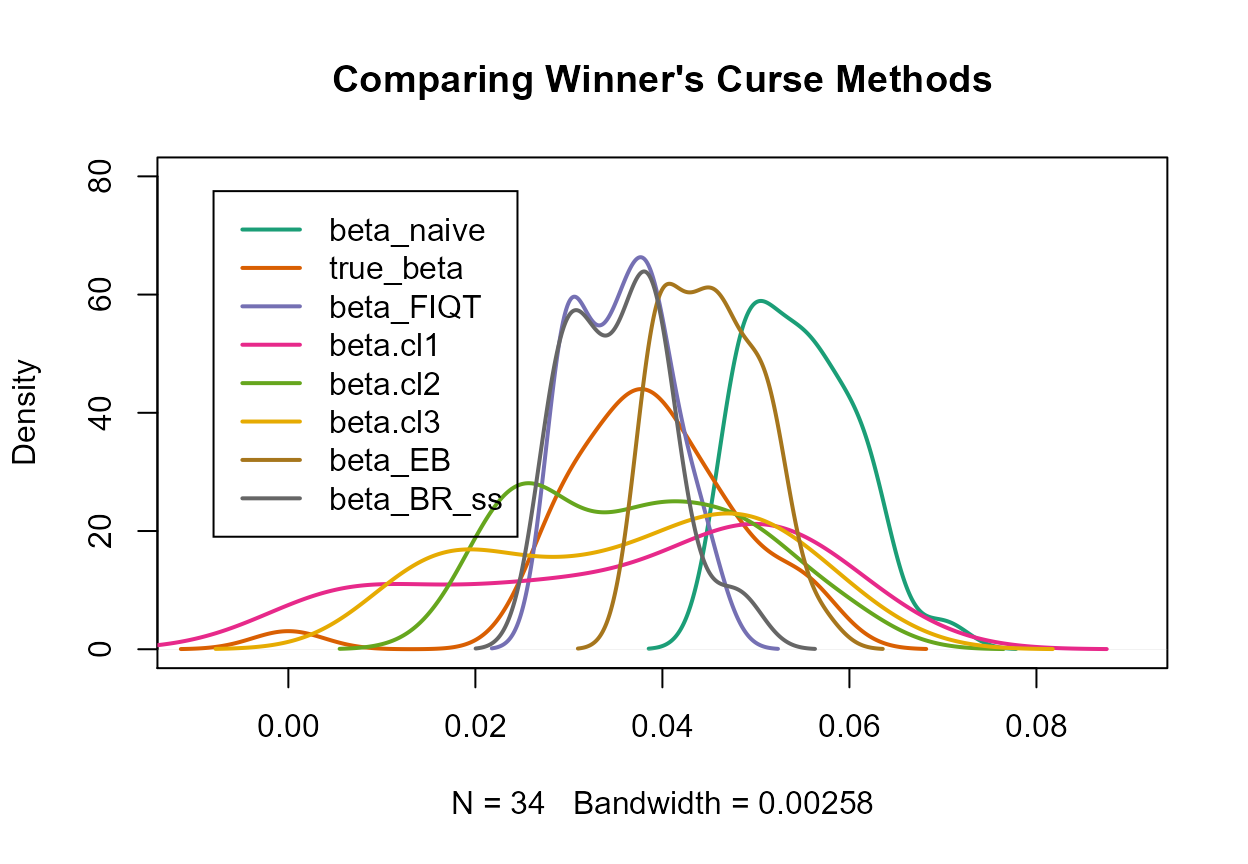
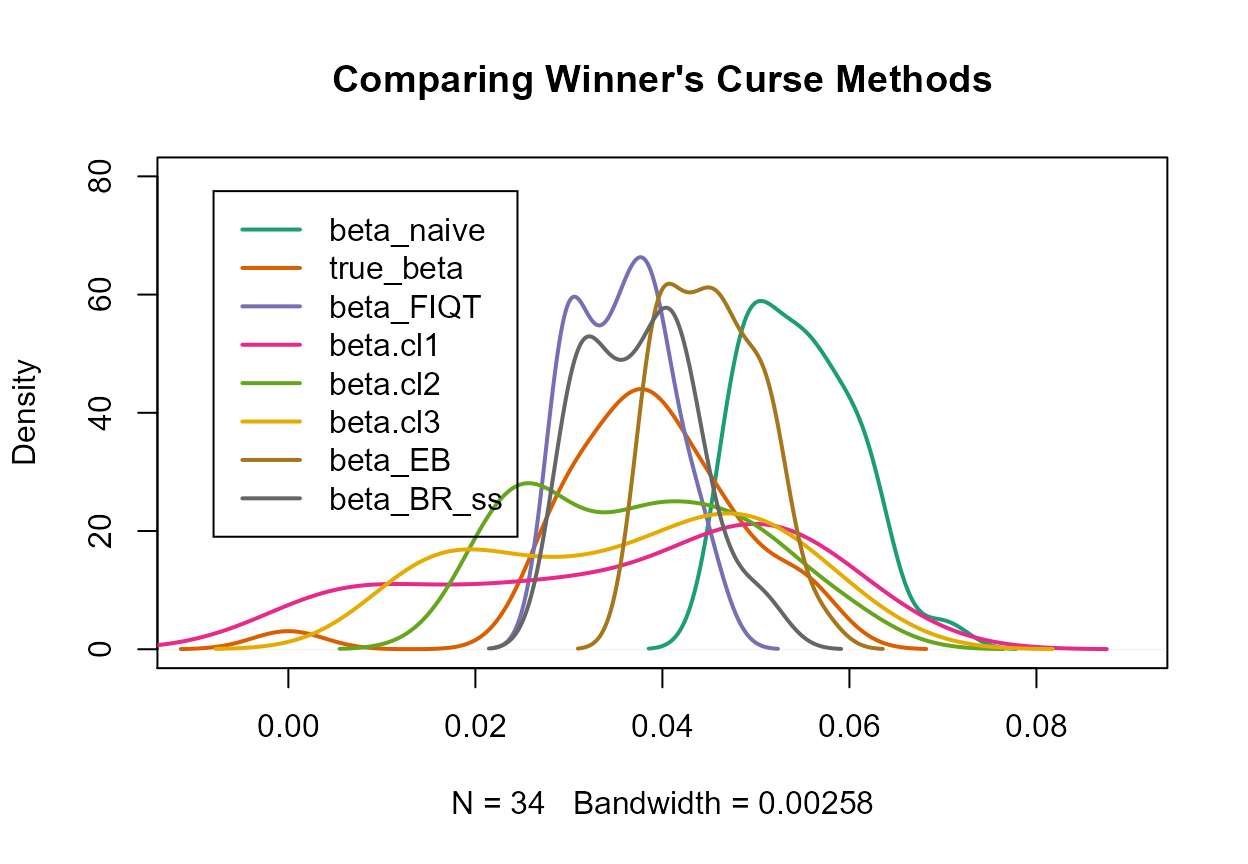
minor polishing touches 13/04

Changed region(s): [[0.375, 0.3125, 0.625, 0.75], [0.625, 0.7188, 0.6562, 0.75]]

diff --git a/docs/articles/winners_curse_methods.html b/docs/articles/winners_curse_methods.html
@@ -246,7 +246,7 @@
 <a href="#method-4-bootstrap" class="anchor"></a>Method 4: Bootstrap</h3>
 <ul>
 <li><p>Inspired by the winner’s curse adjustment method detailed in <a href="https://onlinelibrary.wiley.com/doi/abs/10.1002/sim.4228">Faye <em>et al.</em> (2011)</a>, the function <code>BR_ss</code> implements a computationally efficient bootstrap method which is suitable for use with summary statistics.</p></li>
-<li><p><code>BR_ss</code> takes a data frame <code>summary_data</code> with three columns: <code>rsid</code>, <code>beta</code>, <code>se</code>, and returns the inputted data frame along with the adjusted estimate for <span class="math inline">\(\beta\)</span>, <code>beta_BR_ss</code>. The function also has a parameter <code>seed</code> which can be set to a specific numeric value by the user to permit reproducibility. This is required as this method involves bootstrap implementation and therefore, the use of a seed allows the user to obtain the exact same results for <code>beta_BR_ss</code> when running the function many times on the same dataset. The default value for <code>seed</code> is <code>1998</code>.</p></li>
+<li><p><code>BR_ss</code> takes a data frame <code>summary_data</code> with three columns: <code>rsid</code>, <code>beta</code>, <code>se</code>, and returns the inputted data frame along with the adjusted estimate for <span class="math inline">\(\beta\)</span>, <code>beta_BR_ss</code>. The function also has a logical parameter <code>seed_opt</code> which can be set to <code>TRUE</code> by the user to permit reproducibility. Its default setting is <code>seed_opt=FALSE</code>. As this method involves bootstrap implementation, the use of a seed can allow the user to obtain the exact same results for <code>beta_BR_ss</code> when running the function many times on the same dataset. The parameter <code>seed</code> provides the user with an option to set their desired value for the seed when using <code>seed_opt=TRUE</code>. The default for <code>seed</code> is the arbitrary value of <code>1998</code>.</p></li>
 </ul>
 <p><span class="math inline">\(~\)</span></p>
 <p><strong>Method description:</strong></p>
@@ -261,12 +261,12 @@
 <code class="sourceCode R"><span class="va">out_BR_ss</span> <span class="op">&lt;-</span> <span class="fu"><a href="../reference/BR_ss.html">BR_ss</a></span><span class="op">(</span>summary_data <span class="op">=</span> <span class="va">summary_stats</span>, seed<span class="op">=</span><span class="fl">2020</span><span class="op">)</span>
 <span class="fu"><a href="https://rdrr.io/r/utils/head.html">head</a></span><span class="op">(</span><span class="va">out_BR_ss</span><span class="op">)</span>
 <span class="co">#&gt;   rsid        beta          se  beta_BR_ss</span>
-<span class="co">#&gt; 1 3965  0.06064760 0.008191123  0.04734351</span>
-<span class="co">#&gt; 2 7815  0.06273204 0.008477889  0.04894913</span>
-<span class="co">#&gt; 3 4998 -0.05956742 0.008336576 -0.04113971</span>
-<span class="co">#&gt; 4 7261  0.05510736 0.008186396  0.03990783</span>
-<span class="co">#&gt; 5 6510  0.05623389 0.008389116  0.04057554</span>
-<span class="co">#&gt; 6 9917  0.05466029 0.008176299  0.03934833</span></code></pre></div>
+<span class="co">#&gt; 1 3965  0.06064760 0.008191123  0.04959912</span>
+<span class="co">#&gt; 2 7815  0.06273204 0.008477889  0.05128017</span>
+<span class="co">#&gt; 3 4998 -0.05956742 0.008336576 -0.04600100</span>
+<span class="co">#&gt; 4 7261  0.05510736 0.008186396  0.04168222</span>
+<span class="co">#&gt; 5 6510  0.05623389 0.008389116  0.04237417</span>
+<span class="co">#&gt; 6 9917  0.05466029 0.008176299  0.04108921</span></code></pre></div>
 </div>
 <div id="comparing-results" class="section level3">
 <h3 class="hasAnchor">
@@ -293,17 +293,17 @@
 <code class="sourceCode R"><span class="va">sq_diff_2</span> <span class="op">&lt;-</span> <span class="fu"><a href="https://rdrr.io/r/base/data.frame.html">data.frame</a></span><span class="op">(</span>naive <span class="op">=</span> <span class="fu"><a href="https://rdrr.io/r/base/sum.html">sum</a></span><span class="op">(</span><span class="op">(</span><span class="va">true_beta</span><span class="op">[</span><span class="va">out_EB</span><span class="op">$</span><span class="va">rsid</span><span class="op">]</span> <span class="op">-</span> <span class="va">out_EB</span><span class="op">$</span><span class="va">beta</span><span class="op">)</span><span class="op">^</span><span class="fl">2</span><span class="op">)</span>, beta_EB <span class="op">=</span> <span class="fu"><a href="https://rdrr.io/r/base/sum.html">sum</a></span><span class="op">(</span><span class="op">(</span><span class="va">true_beta</span><span class="op">[</span><span class="va">out_EB</span><span class="op">$</span><span class="va">rsid</span><span class="op">]</span> <span class="op">-</span> <span class="va">out_EB</span><span class="op">$</span><span class="va">beta_EB</span><span class="op">)</span><span class="op">^</span><span class="fl">2</span><span class="op">)</span>, beta_FIQT <span class="op">=</span> <span class="fu"><a href="https://rdrr.io/r/base/sum.html">sum</a></span><span class="op">(</span><span class="op">(</span><span class="va">true_beta</span><span class="op">[</span><span class="va">out_FIQT</span><span class="op">$</span><span class="va">rsid</span><span class="op">]</span> <span class="op">-</span> <span class="va">out_FIQT</span><span class="op">$</span><span class="va">beta_FIQT</span><span class="op">)</span><span class="op">^</span><span class="fl">2</span><span class="op">)</span>, beta_BR_ss <span class="op">=</span> <span class="fu"><a href="https://rdrr.io/r/base/sum.html">sum</a></span><span class="op">(</span><span class="op">(</span><span class="va">true_beta</span><span class="op">[</span><span class="va">out_BR_ss</span><span class="op">$</span><span class="va">rsid</span><span class="op">]</span> <span class="op">-</span> <span class="va">out_BR_ss</span><span class="op">$</span><span class="va">beta_BR_ss</span><span class="op">)</span><span class="op">^</span><span class="fl">2</span><span class="op">)</span><span class="op">)</span>
 <span class="va">sq_diff_2</span>
 <span class="co">#&gt;      naive  beta_EB beta_FIQT beta_BR_ss</span>
-<span class="co">#&gt; 1 155.8238 1.840636  1.867272   15.21117</span>
+<span class="co">#&gt; 1 155.8238 1.840611  1.867272   15.13993</span>
 
 <span class="va">mean_abs_diff_2</span> <span class="op">&lt;-</span> <span class="fu"><a href="https://rdrr.io/r/base/data.frame.html">data.frame</a></span><span class="op">(</span>naive <span class="op">=</span> <span class="fu"><a href="https://rdrr.io/r/base/mean.html">mean</a></span><span class="op">(</span><span class="fu"><a href="https://rdrr.io/r/base/MathFun.html">abs</a></span><span class="op">(</span><span class="va">true_beta</span><span class="op">[</span><span class="va">out_EB</span><span class="op">$</span><span class="va">rsid</span><span class="op">]</span> <span class="op">-</span> <span class="va">out_EB</span><span class="op">$</span><span class="va">beta</span><span class="op">)</span><span class="op">)</span>, beta_EB <span class="op">=</span> <span class="fu"><a href="https://rdrr.io/r/base/mean.html">mean</a></span><span class="op">(</span><span class="fu"><a href="https://rdrr.io/r/base/MathFun.html">abs</a></span><span class="op">(</span><span class="va">true_beta</span><span class="op">[</span><span class="va">out_EB</span><span class="op">$</span><span class="va">rsid</span><span class="op">]</span> <span class="op">-</span> <span class="va">out_EB</span><span class="op">$</span><span class="va">beta_EB</span><span class="op">)</span><span class="op">)</span>, beta_FIQT <span class="op">=</span> <span class="fu"><a href="https://rdrr.io/r/base/mean.html">mean</a></span><span class="op">(</span><span class="fu"><a href="https://rdrr.io/r/base/MathFun.html">abs</a></span><span class="op">(</span><span class="va">true_beta</span><span class="op">[</span><span class="va">out_FIQT</span><span class="op">$</span><span class="va">rsid</span><span class="op">]</span> <span class="op">-</span> <span class="va">out_FIQT</span><span class="op">$</span><span class="va">beta_FIQT</span><span class="op">)</span><span class="op">)</span>, beta_BR_ss <span class="op">=</span> <span class="fu"><a href="https://rdrr.io/r/base/mean.html">mean</a></span><span class="op">(</span><span class="fu"><a href="https://rdrr.io/r/base/MathFun.html">abs</a></span><span class="op">(</span><span class="va">true_beta</span><span class="op">[</span><span class="va">out_BR_ss</span><span class="op">$</span><span class="va">rsid</span><span class="op">]</span> <span class="op">-</span> <span class="va">out_BR_ss</span><span class="op">$</span><span class="va">beta_BR_ss</span><span class="op">)</span><span class="op">)</span><span class="op">)</span>
 <span class="va">mean_abs_diff_2</span>
 <span class="co">#&gt;         naive      beta_EB    beta_FIQT  beta_BR_ss</span>
-<span class="co">#&gt; 1 0.009104013 0.0002067533 0.0002557587 0.002790279</span>
+<span class="co">#&gt; 1 0.009104013 0.0002068009 0.0002557587 0.002778236</span>
 
 <span class="va">frac_less_bias_2</span> <span class="op">&lt;-</span> <span class="fu"><a href="https://rdrr.io/r/base/data.frame.html">data.frame</a></span><span class="op">(</span>beta_EB <span class="op">=</span> <span class="op">(</span><span class="fu"><a href="https://rdrr.io/r/base/sum.html">sum</a></span><span class="op">(</span><span class="fu"><a href="https://rdrr.io/r/base/MathFun.html">abs</a></span><span class="op">(</span><span class="va">true_beta</span><span class="op">[</span><span class="va">out_EB</span><span class="op">$</span><span class="va">rsid</span><span class="op">]</span> <span class="op">-</span> <span class="va">out_EB</span><span class="op">$</span><span class="va">beta</span><span class="op">)</span> <span class="op">&gt;</span> <span class="fu"><a href="https://rdrr.io/r/base/MathFun.html">abs</a></span><span class="op">(</span><span class="va">true_beta</span><span class="op">[</span><span class="va">out_EB</span><span class="op">$</span><span class="va">rsid</span><span class="op">]</span> <span class="op">-</span> <span class="va">out_EB</span><span class="op">$</span><span class="va">beta_EB</span><span class="op">)</span><span class="op">)</span><span class="op">)</span><span class="op">/</span><span class="fu"><a href="https://rdrr.io/r/base/nrow.html">nrow</a></span><span class="op">(</span><span class="va">out_EB</span><span class="op">)</span>, beta_FIQT <span class="op">=</span> <span class="op">(</span><span class="fu"><a href="https://rdrr.io/r/base/sum.html">sum</a></span><span class="op">(</span><span class="fu"><a href="https://rdrr.io/r/base/MathFun.html">abs</a></span><span class="op">(</span><span class="va">true_beta</span><span class="op">[</span><span class="va">out_FIQT</span><span class="op">$</span><span class="va">rsid</span><span class="op">]</span> <span class="op">-</span> <span class="va">out_FIQT</span><span class="op">$</span><span class="va">beta</span><span class="op">)</span> <span class="op">&gt;</span> <span class="fu"><a href="https://rdrr.io/r/base/MathFun.html">abs</a></span><span class="op">(</span><span class="va">true_beta</span><span class="op">[</span><span class="va">out_FIQT</span><span class="op">$</span><span class="va">rsid</span><span class="op">]</span> <span class="op">-</span> <span class="va">out_FIQT</span><span class="op">$</span><span class="va">beta_FIQT</span><span class="op">)</span><span class="op">)</span><span class="op">)</span><span class="op">/</span><span class="fu"><a href="https://rdrr.io/r/base/nrow.html">nrow</a></span><span class="op">(</span><span class="va">out_FIQT</span><span class="op">)</span>, beta_BR_ss <span class="op">=</span> <span class="op">(</span><span class="fu"><a href="https://rdrr.io/r/base/sum.html">sum</a></span><span class="op">(</span><span class="fu"><a href="https://rdrr.io/r/base/MathFun.html">abs</a></span><span class="op">(</span><span class="va">true_beta</span><span class="op">[</span><span class="va">out_BR_ss</span><span class="op">$</span><span class="va">rsid</span><span class="op">]</span> <span class="op">-</span> <span class="va">out_BR_ss</span><span class="op">$</span><span class="va">beta</span><span class="op">)</span> <span class="op">&gt;</span> <span class="fu"><a href="https://rdrr.io/r/base/MathFun.html">abs</a></span><span class="op">(</span><span class="va">true_beta</span><span class="op">[</span><span class="va">out_BR_ss</span><span class="op">$</span><span class="va">rsid</span><span class="op">]</span> <span class="op">-</span> <span class="va">out_BR_ss</span><span class="op">$</span><span class="va">beta_BR_ss</span><span class="op">)</span><span class="op">)</span><span class="op">)</span><span class="op">/</span><span class="fu"><a href="https://rdrr.io/r/base/nrow.html">nrow</a></span><span class="op">(</span><span class="va">out_BR_ss</span><span class="op">)</span><span class="op">)</span>
 <span class="va">frac_less_bias_2</span>
-<span class="co">#&gt;    beta_EB beta_FIQT beta_BR_ss</span>
-<span class="co">#&gt; 1 0.991785  0.994367   0.994038</span></code></pre></div>
+<span class="co">#&gt;   beta_EB beta_FIQT beta_BR_ss</span>
+<span class="co">#&gt; 1 0.99179  0.994367   0.994128</span></code></pre></div>
 <p>Again, we see that in the top two cases, the value associated with the naive estimate is greatest. This assures us that the new adjusted estimates provided by each method are indeed less biased than the original <span class="math inline">\(\beta\)</span> estimate. In fact, for each method, at least 99% of the association estimates of all SNPs are now less biased.</p>
 <p>Finally, we can compare the performance of all methods for the SNPs with raw <span class="math inline">\(p\)</span>-values less than <code>5e-8</code>.</p>
 <div class="sourceCode" id="cb9"><pre class="downlit sourceCode r">
@@ -317,14 +317,14 @@
 <span class="co">#&gt;        naive   beta.cl1    beta.cl2   beta.cl3     beta_EB   beta_FIQT</span>
 <span class="co">#&gt; 1 0.01315265 0.01096133 0.004872073 0.00726706 0.005322342 0.003633531</span>
 <span class="co">#&gt;    beta_BR_ss</span>
-<span class="co">#&gt; 1 0.003662217</span>
+<span class="co">#&gt; 1 0.003402189</span>
 
 <span class="va">mean_abs_diff_3</span> <span class="op">&lt;-</span> <span class="fu"><a href="https://rdrr.io/r/base/data.frame.html">data.frame</a></span><span class="op">(</span>naive <span class="op">=</span> <span class="fu"><a href="https://rdrr.io/r/base/mean.html">mean</a></span><span class="op">(</span><span class="fu"><a href="https://rdrr.io/r/base/MathFun.html">abs</a></span><span class="op">(</span><span class="va">true_beta</span><span class="op">[</span><span class="va">out_CL</span><span class="op">$</span><span class="va">rsid</span><span class="op">]</span> <span class="op">-</span> <span class="va">out_CL</span><span class="op">$</span><span class="va">beta</span><span class="op">)</span><span class="op">)</span>, beta.cl1 <span class="op">=</span> <span class="fu"><a href="https://rdrr.io/r/base/mean.html">mean</a></span><span class="op">(</span><span class="fu"><a href="https://rdrr.io/r/base/MathFun.html">abs</a></span><span class="op">(</span><span class="va">true_beta</span><span class="op">[</span><span class="va">out_CL</span><span class="op">$</span><span class="va">rsid</span><span class="op">]</span> <span class="op">-</span> <span class="va">out_CL</span><span class="op">$</span><span class="va">beta.cl1</span><span class="op">)</span><span class="op">)</span>,  beta.cl2 <span class="op">=</span> <span class="fu"><a href="https://rdrr.io/r/base/mean.html">mean</a></span><span class="op">(</span><span class="fu"><a href="https://rdrr.io/r/base/MathFun.html">abs</a></span><span class="op">(</span><span class="va">true_beta</span><span class="op">[</span><span class="va">out_CL</span><span class="op">$</span><span class="va">rsid</span><span class="op">]</span> <span class="op">-</span> <span class="va">out_CL</span><span class="op">$</span><span class="va">beta.cl2</span><span class="op">)</span><span class="op">)</span>,  beta.cl3 <span class="op">=</span> <span class="fu"><a href="https://rdrr.io/r/base/mean.html">mean</a></span><span class="op">(</span><span class="fu"><a href="https://rdrr.io/r/base/MathFun.html">abs</a></span><span class="op">(</span><span class="va">true_beta</span><span class="op">[</span><span class="va">out_CL</span><span class="op">$</span><span class="va">rsid</span><span class="op">]</span> <span class="op">-</span> <span class="va">out_CL</span><span class="op">$</span><span class="va">beta.cl3</span><span class="op">)</span><span class="op">)</span>, beta_EB <span class="op">=</span> <span class="fu"><a href="https://rdrr.io/r/base/mean.html">mean</a></span><span class="op">(</span><span class="fu"><a href="https://rdrr.io/r/base/MathFun.html">abs</a></span><span class="op">(</span><span class="va">true_beta</span><span class="op">[</span><span class="va">out_EB_sig</span><span class="op">$</span><span class="va">rsid</span><span class="op">]</span> <span class="op">-</span> <span class="va">out_EB_sig</span><span class="op">$</span><span class="va">beta_EB</span><span class="op">)</span><span class="op">)</span>, beta_FIQT <span class="op">=</span> <span class="fu"><a href="https://rdrr.io/r/base/mean.html">mean</a></span><span class="op">(</span><span class="fu"><a href="https://rdrr.io/r/base/MathFun.html">abs</a></span><span class="op">(</span><span class="va">true_beta</span><span class="op">[</span><span class="va">out_FIQT_sig</span><span class="op">$</span><span class="va">rsid</span><span class="op">]</span> <span class="op">-</span> <span class="va">out_FIQT_sig</span><span class="op">$</span><span class="va">beta_FIQT</span><span class="op">)</span><span class="op">)</span>, beta_BR_ss <span class="op">=</span> <span class="fu"><a href="https://rdrr.io/r/base/mean.html">mean</a></span><span class="op">(</span><span class="fu"><a href="https://rdrr.io/r/base/MathFun.html">abs</a></span><span class="op">(</span><span class="va">true_beta</span><span class="op">[</span><span class="va">out_BR_ss_sig</span><span class="op">$</span><span class="va">rsid</span><span class="op">]</span> <span class="op">-</span> <span class="va">out_BR_ss_sig</span><span class="op">$</span><span class="va">beta_BR_ss</span><span class="op">)</span><span class="op">)</span><span class="op">)</span>
 <span class="va">mean_abs_diff_3</span>
 <span class="co">#&gt;        naive   beta.cl1    beta.cl2   beta.cl3     beta_EB   beta_FIQT</span>
 <span class="co">#&gt; 1 0.01655319 0.01495558 0.009610264 0.01212566 0.009201966 0.007019747</span>
 <span class="co">#&gt;    beta_BR_ss</span>
-<span class="co">#&gt; 1 0.007250889</span>
+<span class="co">#&gt; 1 0.006709485</span>
 
 <span class="va">frac_less_bias_3</span> <span class="op">&lt;-</span> <span class="fu"><a href="https://rdrr.io/r/base/data.frame.html">data.frame</a></span><span class="op">(</span>beta.cl1 <span class="op">=</span> <span class="op">(</span><span class="fu"><a href="https://rdrr.io/r/base/sum.html">sum</a></span><span class="op">(</span><span class="fu"><a href="https://rdrr.io/r/base/MathFun.html">abs</a></span><span class="op">(</span><span class="va">true_beta</span><span class="op">[</span><span class="va">out_CL</span><span class="op">$</span><span class="va">rsid</span><span class="op">]</span> <span class="op">-</span> <span class="va">out_CL</span><span class="op">$</span><span class="va">beta</span><span class="op">)</span> <span class="op">&gt;</span> <span class="fu"><a href="https://rdrr.io/r/base/MathFun.html">abs</a></span><span class="op">(</span><span class="va">true_beta</span><span class="op">[</span><span class="va">out_CL</span><span class="op">$</span><span class="va">rsid</span><span class="op">]</span> <span class="op">-</span> <span class="va">out_CL</span><span class="op">$</span><span class="va">beta.cl1</span><span class="op">)</span><span class="op">)</span><span class="op">)</span><span class="op">/</span><span class="fu"><a href="https://rdrr.io/r/base/nrow.html">nrow</a></span><span class="op">(</span><span class="va">out_CL</span><span class="op">)</span>, beta.cl2 <span class="op">=</span> <span class="op">(</span><span class="fu"><a href="https://rdrr.io/r/base/sum.html">sum</a></span><span class="op">(</span><span class="fu"><a href="https://rdrr.io/r/base/MathFun.html">abs</a></span><span class="op">(</span><span class="va">true_beta</span><span class="op">[</span><span class="va">out_CL</span><span class="op">$</span><span class="va">rsid</span><span class="op">]</span> <span class="op">-</span> <span class="va">out_CL</span><span class="op">$</span><span class="va">beta</span><span class="op">)</span> <span class="op">&gt;</span> <span class="fu"><a href="https://rdrr.io/r/base/MathFun.html">abs</a></span><span class="op">(</span><span class="va">true_beta</span><span class="op">[</span><span class="va">out_CL</span><span class="op">$</span><span class="va">rsid</span><span class="op">]</span> <span class="op">-</span> <span class="va">out_CL</span><span class="op">$</span><span class="va">beta.cl2</span><span class="op">)</span><span class="op">)</span><span class="op">)</span><span class="op">/</span><span class="fu"><a href="https://rdrr.io/r/base/nrow.html">nrow</a></span><span class="op">(</span><span class="va">out_CL</span><span class="op">)</span>, beta.cl3 <span class="op">=</span> <span class="op">(</span><span class="fu"><a href="https://rdrr.io/r/base/sum.html">sum</a></span><span class="op">(</span><span class="fu"><a href="https://rdrr.io/r/base/MathFun.html">abs</a></span><span class="op">(</span><span class="va">true_beta</span><span class="op">[</span><span class="va">out_CL</span><span class="op">$</span><span class="va">rsid</span><span class="op">]</span> <span class="op">-</span> <span class="va">out_CL</span><span class="op">$</span><span class="va">beta</span><span class="op">)</span> <span class="op">&gt;</span> <span class="fu"><a href="https://rdrr.io/r/base/MathFun.html">abs</a></span><span class="op">(</span><span class="va">true_beta</span><span class="op">[</span><span class="va">out_CL</span><span class="op">$</span><span class="va">rsid</span><span class="op">]</span> <span class="op">-</span> <span class="va">out_CL</span><span class="op">$</span><span class="va">beta.cl3</span><span class="op">)</span><span class="op">)</span><span class="op">)</span><span class="op">/</span><span class="fu"><a href="https://rdrr.io/r/base/nrow.html">nrow</a></span><span class="op">(</span><span class="va">out_CL</span><span class="op">)</span>, beta_EB <span class="op">=</span> <span class="op">(</span><span class="fu"><a href="https://rdrr.io/r/base/sum.html">sum</a></span><span class="op">(</span><span class="fu"><a href="https://rdrr.io/r/base/MathFun.html">abs</a></span><span class="op">(</span><span class="va">true_beta</span><span class="op">[</span><span class="va">out_EB_sig</span><span class="op">$</span><span class="va">rsid</span><span class="op">]</span> <span class="op">-</span> <span class="va">out_EB_sig</span><span class="op">$</span><span class="va">beta</span><span class="op">)</span> <span class="op">&gt;</span> <span class="fu"><a href="https://rdrr.io/r/base/MathFun.html">abs</a></span><span class="op">(</span><span class="va">true_beta</span><span class="op">[</span><span class="va">out_EB_sig</span><span class="op">$</span><span class="va">rsid</span><span class="op">]</span> <span class="op">-</span> <span class="va">out_EB_sig</span><span class="op">$</span><span class="va">beta_EB</span><span class="op">)</span><span class="op">)</span><span class="op">)</span><span class="op">/</span><span class="fu"><a href="https://rdrr.io/r/base/nrow.html">nrow</a></span><span class="op">(</span><span class="va">out_EB_sig</span><span class="op">)</span>, beta_FIQT <span class="op">=</span> <span class="op">(</span><span class="fu"><a href="https://rdrr.io/r/base/sum.html">sum</a></span><span class="op">(</span><span class="fu"><a href="https://rdrr.io/r/base/MathFun.html">abs</a></span><span class="op">(</span><span class="va">true_beta</span><span class="op">[</span><span class="va">out_FIQT_sig</span><span class="op">$</span><span class="va">rsid</span><span class="op">]</span> <span class="op">-</span> <span class="va">out_FIQT_sig</span><span class="op">$</span><span class="va">beta</span><span class="op">)</span> <span class="op">&gt;</span> <span class="fu"><a href="https://rdrr.io/r/base/MathFun.html">abs</a></span><span class="op">(</span><span class="va">true_beta</span><span class="op">[</span><span class="va">out_FIQT_sig</span><span class="op">$</span><span class="va">rsid</span><span class="op">]</span> <span class="op">-</span> <span class="va">out_FIQT_sig</span><span class="op">$</span><span class="va">beta_FIQT</span><span class="op">)</span><span class="op">)</span><span class="op">)</span><span class="op">/</span><span class="fu"><a href="https://rdrr.io/r/base/nrow.html">nrow</a></span><span class="op">(</span><span class="va">out_FIQT_sig</span><span class="op">)</span>, beta_BR_ss <span class="op">=</span> <span class="op">(</span><span class="fu"><a href="https://rdrr.io/r/base/sum.html">sum</a></span><span class="op">(</span><span class="fu"><a href="https://rdrr.io/r/base/MathFun.html">abs</a></span><span class="op">(</span><span class="va">true_beta</span><span class="op">[</span><span class="va">out_BR_ss_sig</span><span class="op">$</span><span class="va">rsid</span><span class="op">]</span> <span class="op">-</span> <span class="va">out_BR_ss_sig</span><span class="op">$</span><span class="va">beta</span><span class="op">)</span> <span class="op">&gt;</span> <span class="fu"><a href="https://rdrr.io/r/base/MathFun.html">abs</a></span><span class="op">(</span><span class="va">true_beta</span><span class="op">[</span><span class="va">out_BR_ss_sig</span><span class="op">$</span><span class="va">rsid</span><span class="op">]</span> <span class="op">-</span> <span class="va">out_BR_ss_sig</span><span class="op">$</span><span class="va">beta_BR_ss</span><span class="op">)</span><span class="op">)</span><span class="op">)</span><span class="op">/</span><span class="fu"><a href="https://rdrr.io/r/base/nrow.html">nrow</a></span><span class="op">(</span><span class="va">out_BR_ss_sig</span><span class="op">)</span><span class="op">)</span>
 <span class="va">frac_less_bias_3</span>

diff --git a/docs/articles/standard_errors_confidence_intervals.html b/docs/articles/standard_errors_confidence_intervals.html
@@ -144,22 +144,22 @@
 <span class="va">out_BR_ss</span> <span class="op">&lt;-</span> <span class="fu"><a href="../reference/se_adjust.html">se_adjust</a></span><span class="op">(</span>summary_data <span class="op">=</span> <span class="va">summary_stats</span>, method <span class="op">=</span> <span class="st">"BR_ss"</span>, n_boot<span class="op">=</span><span class="fl">10</span><span class="op">)</span>
 <span class="fu"><a href="https://rdrr.io/r/utils/head.html">head</a></span><span class="op">(</span><span class="va">out_BR_ss</span><span class="op">)</span>
 <span class="co">#&gt;   rsid        beta          se  beta_BR_ss      adj_se</span>
-<span class="co">#&gt; 1 3965  0.06064760 0.008191123  0.04154508 0.006898238</span>
-<span class="co">#&gt; 2 7815  0.06273204 0.008477889  0.04296091 0.007252698</span>
-<span class="co">#&gt; 3 4998 -0.05956742 0.008336576 -0.04235111 0.003932971</span>
-<span class="co">#&gt; 4 7261  0.05510736 0.008186396  0.03583453 0.004099183</span>
-<span class="co">#&gt; 5 6510  0.05623389 0.008389116  0.03646890 0.005144036</span>
-<span class="co">#&gt; 6 9917  0.05466029 0.008176299  0.03538731 0.004819424</span>
+<span class="co">#&gt; 1 3965  0.06064760 0.008191123  0.04608950 0.009319973</span>
+<span class="co">#&gt; 2 7815  0.06273204 0.008477889  0.04765488 0.009184917</span>
+<span class="co">#&gt; 3 4998 -0.05956742 0.008336576 -0.04363663 0.004012381</span>
+<span class="co">#&gt; 4 7261  0.05510736 0.008186396  0.03911355 0.005791631</span>
+<span class="co">#&gt; 5 6510  0.05623389 0.008389116  0.03977873 0.006310246</span>
+<span class="co">#&gt; 6 9917  0.05466029 0.008176299  0.03858223 0.005714822</span>
 
 <span class="va">out_FIQT</span> <span class="op">&lt;-</span> <span class="fu"><a href="../reference/se_adjust.html">se_adjust</a></span><span class="op">(</span>summary_data <span class="op">=</span> <span class="va">summary_stats</span>, method <span class="op">=</span> <span class="st">"FDR_IQT"</span>, n_boot<span class="op">=</span><span class="fl">10</span><span class="op">)</span>
 <span class="fu"><a href="https://rdrr.io/r/utils/head.html">head</a></span><span class="op">(</span><span class="va">out_FIQT</span><span class="op">)</span>
 <span class="co">#&gt;   rsid        beta          se   beta_FIQT      adj_se</span>
-<span class="co">#&gt; 1 3965  0.06064760 0.008191123  0.04419398 0.015769087</span>
-<span class="co">#&gt; 2 7815  0.06273204 0.008477889  0.04574119 0.014739413</span>
-<span class="co">#&gt; 3 4998 -0.05956742 0.008336576 -0.04271559 0.011254281</span>
-<span class="co">#&gt; 4 7261  0.05510736 0.008186396  0.03781859 0.008772664</span>
-<span class="co">#&gt; 5 6510  0.05623389 0.008389116  0.03875509 0.013621942</span>
-<span class="co">#&gt; 6 9917  0.05466029 0.008176299  0.03777195 0.012322917</span></code></pre></div>
+<span class="co">#&gt; 1 3965  0.06064760 0.008191123  0.04419398 0.015086292</span>
+<span class="co">#&gt; 2 7815  0.06273204 0.008477889  0.04574119 0.017748660</span>
+<span class="co">#&gt; 3 4998 -0.05956742 0.008336576 -0.04271559 0.019351045</span>
+<span class="co">#&gt; 4 7261  0.05510736 0.008186396  0.03781859 0.008410062</span>
+<span class="co">#&gt; 5 6510  0.05623389 0.008389116  0.03875509 0.006059352</span>
+<span class="co">#&gt; 6 9917  0.05466029 0.008176299  0.03777195 0.013878633</span></code></pre></div>
 <ul>
 <li>Due to the nature of the conditional likelihood methods, we cannot obtain standard errors of the adjusted <code>beta</code> estimates in this manner.</li>
 </ul>

diff --git a/docs/reference/BR_ss.html b/docs/reference/BR_ss.html
@@ -140,7 +140,7 @@ resampling method known as BR-squared, detailed in
 al.</em> (2011)</a>.</p>
     </div>
 
-    <pre class="usage"><span class='fu'>BR_ss</span><span class='op'>(</span><span class='va'>summary_data</span>, seed <span class='op'>=</span> <span class='fl'>1998</span><span class='op'>)</span></pre>
+    <pre class="usage"><span class='fu'>BR_ss</span><span class='op'>(</span><span class='va'>summary_data</span>, seed_opt <span class='op'>=</span> <span class='cn'>FALSE</span>, seed <span class='op'>=</span> <span class='fl'>1998</span><span class='op'>)</span></pre>
 
     <h2 class="hasAnchor" id="arguments"><a class="anchor" href="#arguments"></a>Arguments</h2>
     <table class="ref-arguments">
@@ -153,11 +153,18 @@ discovery GWAS. It must have three columns with column names <code>rsid</code>,
 numerical values.</p></td>
     </tr>
     <tr>
+      <th>seed_opt</th>
+      <td><p>A logical value which allows the user to choose if they wish
+to set a seed, in order to ensure reproducibility of adjusted estimates.
+Small differences can occur between iterations of the function with the same
+data set due to the use of parametric bootstrapping. The default setting is
+<code>seed_opt=FALSE</code>.</p></td>
+    </tr>
+    <tr>
       <th>seed</th>
-      <td><p>A numerical value which is required to allow reproducibility of
-adjusted estimates. Small differences can occur between iterations of the
-function with the same data set due to the use of parametric bootstrapping.
-The default setting is the arbitrary value of <code>1998</code>.</p></td>
+      <td><p>A numerical value which specifies the seed used if
+<code>seed_opt=TRUE</code>. The default setting is the arbitrary value of
+<code>1998</code>.</p></td>
     </tr>
     </table>
 
@@ -179,9 +186,9 @@ The default setting is the arbitrary value of <code>1998</code>.</p></td>
     <h2 class="hasAnchor" id="see-also"><a class="anchor" href="#see-also"></a>See also</h2>
 
     <div class='dont-index'><p><a href='https://amandaforde.github.io/winnerscurse/articles/winners_curse_methods.html'>https://amandaforde.github.io/winnerscurse/articles/winners_curse_methods.html</a>
-  for illustration of the use of <code>BR_ss</code> with a toy data set and further
- information regarding the computation of the adjusted SNP-trait association
- estimates.</p></div>
+for illustration of the use of <code>BR_ss</code> with a toy data set and further
+information regarding the computation of the adjusted SNP-trait association
+estimates.</p></div>
 
   </div>
   <div class="col-md-3 hidden-xs hidden-sm" id="pkgdown-sidebar">
